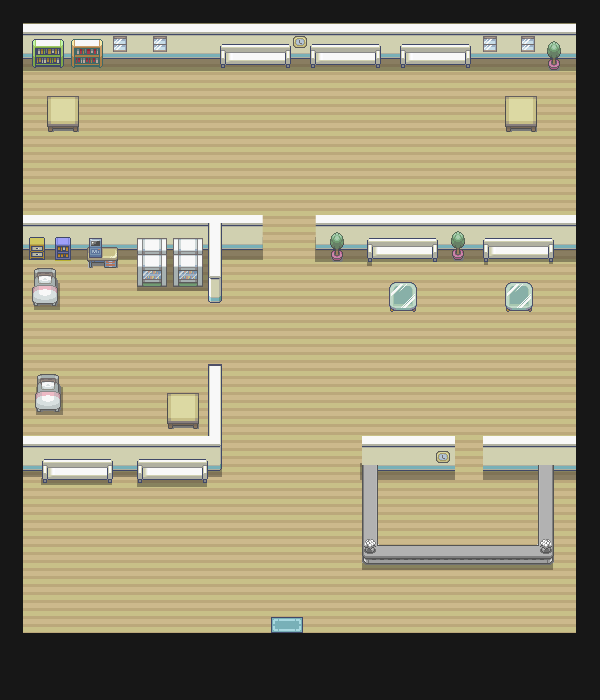
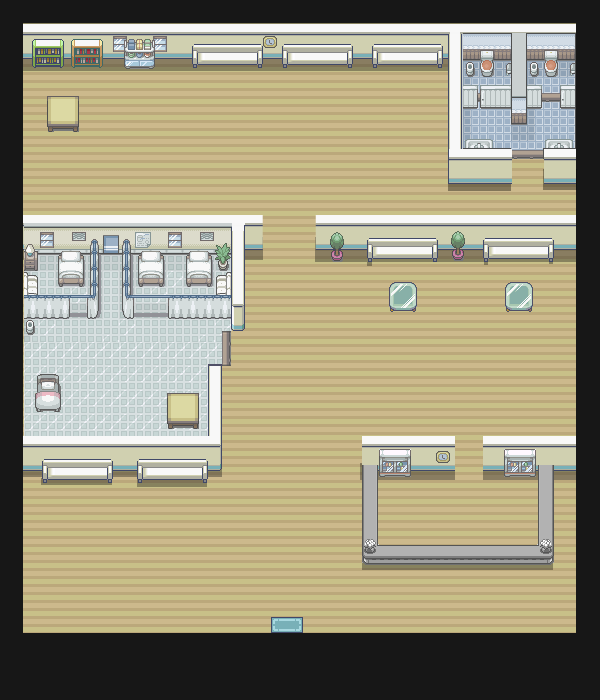
Added final two maps, npcs and quest npcs Added dialogue for them, fixed talking to npcs from the left Made some places easier to move around through on the worldmap

diff --git a/src/main/core/src/edu/udel/cisc275_15S/themis/game_states/Play.java b/src/main/core/src/edu/udel/cisc275_15S/themis/game_states/Play.java
@@ -147,7 +147,7 @@ public class Play extends GameState {
 		case 0: questNPC = "guide";
 				questSprite = "1";
 				break;
-		case 1: questNPC = "guide";
+		case 1: questNPC = "worldguide";
 				questSprite = "2";
 				break;
 		case 2: questNPC = "advisor";
@@ -155,6 +155,12 @@ public class Play extends GameState {
 				break;
 		case 3: questNPC = "doctor";
 				questSprite = "doctor";
+				break;
+		case 4: questNPC = "consultant";
+				questSprite = "consultant";
+				break;
+		case 5: questNPC = "counselor";
+				questSprite = "counselor";
 				break;
 		default: questNPC = "guide";
 				questSprite = "1";
@@ -261,6 +267,15 @@ public class Play extends GameState {
 				musicMap= 3;
 				music = Gdx.audio.newMusic(Gdx.files.internal("Audio/TinyPiano.mp3"));
 				music.play();
+			case 4:
+				musicMap= 3;
+				music = Gdx.audio.newMusic(Gdx.files.internal("Audio/TinyPiano.mp3"));
+				music.play();
+				break;
+			case 5:
+				musicMap= 3;
+				music = Gdx.audio.newMusic(Gdx.files.internal("Audio/TinyPiano.mp3"));
+				music.play();
 				break;
 			default:
 				musicMap = mapIndex;
@@ -287,7 +302,13 @@ public class Play extends GameState {
 		case 2: map = "smith.tmx"; 
 		System.out.println("Loaded " + map);
 		break; 
-		case 3: map = "health.tmx"; 
+		case 3: map = "health2.tmx"; 
+		System.out.println("Loaded " + map);
+		break; 
+		case 4: map = "csc.tmx"; 
+		System.out.println("Loaded " + map);
+		break; 
+		case 5: map = "counseling.tmx"; 
 		System.out.println("Loaded " + map);
 		break; 
 		default: map = "trabant.tmx";
@@ -327,6 +348,18 @@ public class Play extends GameState {
 			exits.add(as);
 		}
 		entrance = tileMap.getLayers().get("health");
+		entr = entrance.getObjects();
+		for (RectangleMapObject ae : entr.getByType(RectangleMapObject.class)) {
+			Rectangle as = ae.getRectangle();
+			exits.add(as);
+		}
+		entrance = tileMap.getLayers().get("csc");
+		entr = entrance.getObjects();
+		for (RectangleMapObject ae : entr.getByType(RectangleMapObject.class)) {
+			Rectangle as = ae.getRectangle();
+			exits.add(as);
+		}
+		entrance = tileMap.getLayers().get("perkins");
 		entr = entrance.getObjects();
 		for (RectangleMapObject ae : entr.getByType(RectangleMapObject.class)) {
 			Rectangle as = ae.getRectangle();
@@ -378,8 +411,18 @@ public class Play extends GameState {
 			map = 1;
 			x = 342f;
 			y = 124f;
-			
-		} else if (mapIndex == 1) {
+		} 
+		if (mapIndex == 4) {
+			map = 1;
+			x = 560f;
+			y = 292f;
+		}
+		if (mapIndex == 5) {
+			map = 1;
+			x = 548f;
+			y = 448f;
+		}
+		else if (mapIndex == 1) {
 			knock.play();
 			for (int i = 0; i < exits.size; i++) {
 				if (exits.get(i) == exit) {
@@ -395,6 +438,14 @@ public class Play extends GameState {
 					if (i == 3) {
 						x = 270f;
 						y = 110f;
+					}
+					if (i == 4) {
+						x = 292f;
+						y = 92f;
+					}
+					if (i == 5) {
+						x = 482f;
+						y = 72f;
 					}
 					}
 				}
@@ -421,13 +472,12 @@ public class Play extends GameState {
 //		testQuiz();
 		if (!newGame) {
 			hud.update(dt);
-		}
 //		try {
+		}
 //			Data.savePlayerData( player.getName() ,player.getX(), player.getY(),player.getDirString(player.getDir()),mapIndex); // TODO get name from textfield
 //		} catch (IOException e) {
 //			e.printStackTrace();
 //		}
-
 
 		if (newGame) {
 			Tutorial.update();

diff --git a/src/main/core/src/edu/udel/cisc275_15S/themis/handlers/CharacterInteractionHandler.java b/src/main/core/src/edu/udel/cisc275_15S/themis/handlers/CharacterInteractionHandler.java
@@ -181,7 +181,7 @@ public class CharacterInteractionHandler {
 			||	((player.getX()>=npcs.get(i).getX()-20)&&(player.getX()<=npcs.get(i).getX()+20))&&((player.getY()+MOVE>=npcs.get(i).getY()-20)&&(player.getY()+MOVE<=npcs.get(i).getY()+20))
 			||
 				(
-				((player.getX()-MOVE>=play.getNPCS().get(i).getX()-20)&&(player.getX()-MOVE<=play.getNPCS().get(i).getX()+20)) &&
+				((player.getX()+MOVE>=play.getNPCS().get(i).getX()-20)&&(player.getX()+MOVE<=play.getNPCS().get(i).getX()+20)) &&
 				((player.getY()>=play.getNPCS().get(i).getY()-20)&&(player.getY()<=play.getNPCS().get(i).getY()+20)))
 			||
 				(
